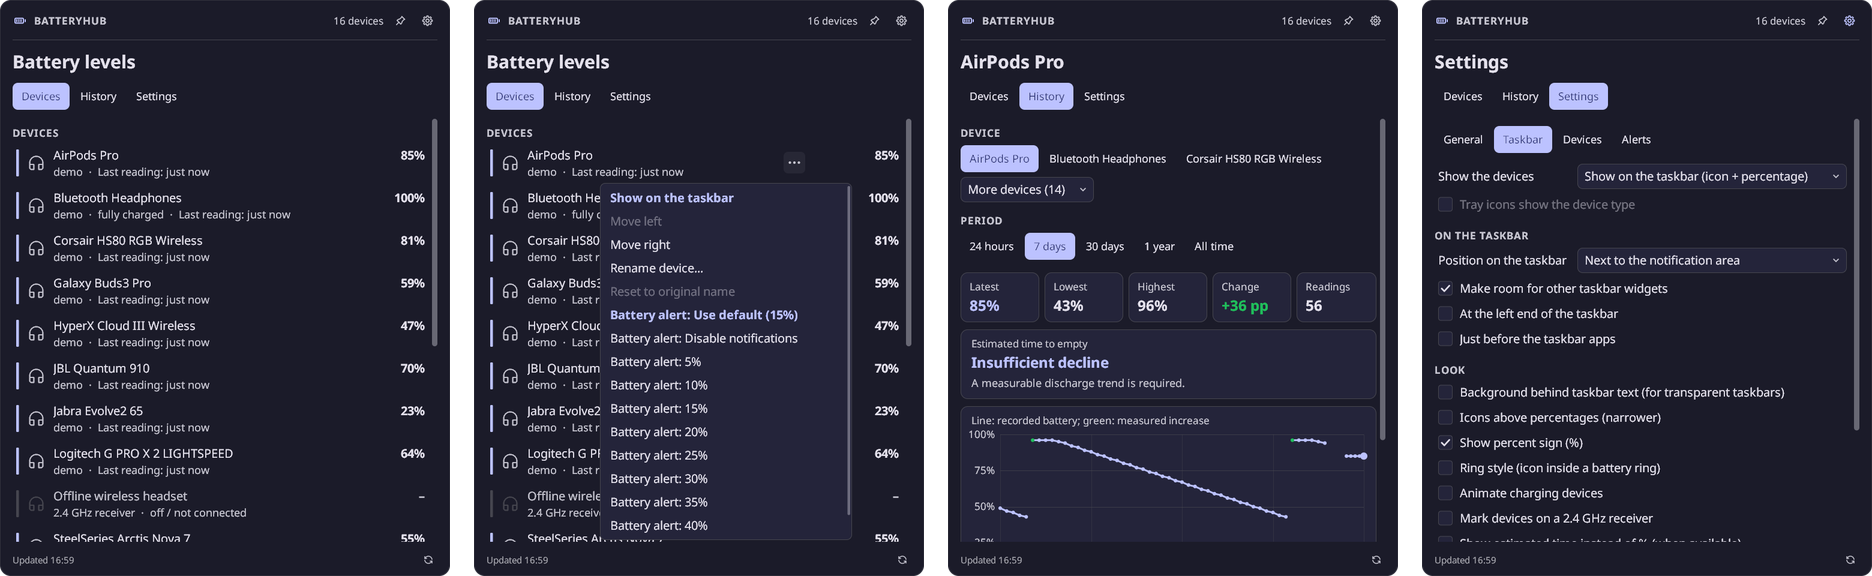
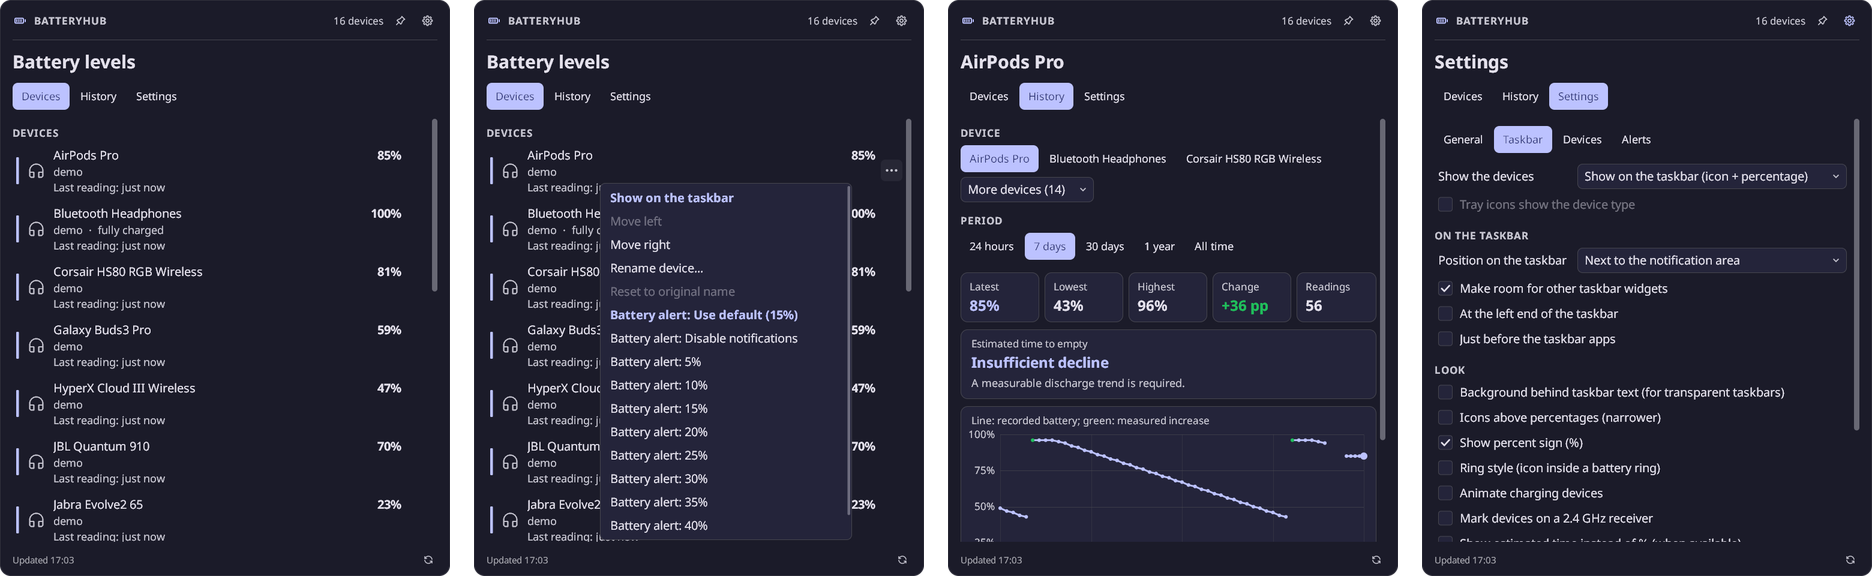
Devices tab: state and tracking details wrap on their own lines; the ... button has its own slot at the right

diff --git a/src/panel.cpp b/src/panel.cpp
@@ -449,14 +449,28 @@ int DrawDevices(int x, int y, int right) {
             y += P(10);
             y += Header(T(L"Hidden"), x, y, right) + P(4);
         }
-        const int rowH = P(4) + nameH + P(1) + subH + P(4);
+        // Columns: chip, icon, text (name, then connection and state, then the tracking details, wrapped),
+        // level and time to empty, and a fixed slot for the "..." button, so nothing overlaps or moves.
+        const COLORREF levelC = d.dim || !d.connected ? kMuted : d.low ? kError : d.charging ? kGo : kOnSurface;
+        const std::wstring tte = d.timeToEmpty.empty() ? std::wstring() : TF(L"{time} to empty", { { L"time", d.timeToEmpty } });
+        const int moreSlot = P(28);
+        const int levelRight = right - moreSlot - P(2);
+        const int levelW = std::max(Width(d.level, { 13, true }), tte.empty() ? 0 : Width(tte, subSt)) + P(4);
+        const int textX = x + P(4) + P(3) + P(8) + P(22) + P(8);
+        const int textRight = levelRight - levelW - P(10);
+        std::wstring line2 = d.connection;
+        if (!d.status.empty()) line2 += (line2.empty() ? L"" : L"  \u00B7  ") + d.status;
+        const int line2H = Wrap(line2, RECT{ textX, 0, textRight, P(400) }, subSt, false);
+        const int line3H = Wrap(d.details, RECT{ textX, 0, textRight, P(400) }, subSt, false);
+        const int rowH = P(4) + nameH + (line2H ? P(1) + line2H : 0) + (line3H ? P(1) + line3H : 0) + P(4);
         const RECT row{ x, y, right, y + rowH };
         AddHit(row, H::Device, static_cast<int>(i));
-        if (Hovered(H::Device, static_cast<int>(i)))
+        const bool rowHover = Hovered(H::Device, static_cast<int>(i)) || Hovered(H::Actions, static_cast<int>(i));
+        if (rowHover)
             FillRound(RectF{ (float)row.left, (float)row.top, (float)row.right, (float)row.bottom }, F(4), kOnSurface, 0.06f);
         int cx = x + P(4);
         // level chip, like the team colour bar in the standings
-        const float chipH = F(30);
+        const float chipH = std::min(F(30), rowH - F(10));
         const float cy = y + rowH / 2.0f;
         FillRound(RectF{ (float)cx, cy - chipH / 2, (float)cx + F(3), cy + chipH / 2 }, F(1), LevelColor(d));
         cx += P(3) + P(8);
@@ -468,31 +482,26 @@ int DrawDevices(int x, int y, int right) {
             RECT gr{ cx, y, cx + P(22), y + rowH };
             DrawTextW(g_cv.dc, g.c_str(), 1, &gr, DT_CENTER | DT_VCENTER | DT_SINGLELINE | DT_NOPREFIX);
         }
-        cx += P(22) + P(8);
-        const int rightW = P(104);
         const COLORREF nameC = d.dim || !d.connected ? kMuted : kOnSurface;
-        Text(d.name, RECT{ cx, y + P(4), right - rightW - P(8), y + P(4) + nameH }, { 13, false, nameC });
-        std::wstring sub = d.connection;
-        for (const std::wstring& part : { d.status, d.details })
-            if (!part.empty()) sub += (sub.empty() ? L"" : L"  ·  ") + part;
-        Text(sub, RECT{ cx, y + P(5) + nameH, right - rightW - P(8), y + P(5) + nameH + subH }, subSt);
-        COLORREF levelC = d.dim || !d.connected ? kMuted : d.low ? kError : d.charging ? kGo : kOnSurface;
-        Text(d.level, RECT{ right - rightW, y + P(4), right - P(4), y + P(4) + nameH }, { 13, true, levelC },
-             DT_RIGHT | DT_VCENTER | DT_SINGLELINE | DT_END_ELLIPSIS);
-        if (!d.timeToEmpty.empty())
-            Text(TF(L"{time} to empty", { { L"time", d.timeToEmpty } }),
-                 RECT{ right - rightW - P(30), y + P(5) + nameH, right - P(4), y + P(5) + nameH + subH }, subSt,
-                 DT_RIGHT | DT_VCENTER | DT_SINGLELINE | DT_END_ELLIPSIS);
-        if (Hovered(H::Device, static_cast<int>(i)) || Hovered(H::Actions, static_cast<int>(i)) ||
-            (g_open == kDeviceActions && g_actionsKey == d.key)) {  // "...": the device's actions
+        int ty = y + P(4);
+        Text(d.name, RECT{ textX, ty, textRight, ty + nameH }, { 13, false, nameC });
+        ty += nameH + P(1);
+        if (line2H) { Wrap(line2, RECT{ textX, ty, textRight, ty + line2H }, subSt); ty += line2H + P(1); }
+        if (line3H) Wrap(d.details, RECT{ textX, ty, textRight, ty + line3H }, subSt);
+        Text(d.level, RECT{ levelRight - levelW, y + P(4), levelRight, y + P(4) + nameH }, { 13, true, levelC },
+             DT_RIGHT | DT_VCENTER | DT_SINGLELINE);
+        if (!tte.empty())
+            Text(tte, RECT{ levelRight - levelW, y + P(5) + nameH, levelRight, y + P(5) + nameH + subH }, subSt,
+                 DT_RIGHT | DT_VCENTER | DT_SINGLELINE);
+        if (rowHover || (g_open == kDeviceActions && g_actionsKey == d.key)) {  // "...": the device's actions
             const int box = P(24);
-            const RECT more{ right - rightW - P(4) - box, y + (rowH - box) / 2, right - rightW - P(4), y + (rowH + box) / 2 };
+            const RECT more{ right - box, y + (rowH - box) / 2, right, y + (rowH + box) / 2 };
             AddHit(more, H::Actions, static_cast<int>(i));
+            const bool hot = Hovered(H::Actions, static_cast<int>(i));
             FillRound(RectF{ (float)more.left, (float)more.top, (float)more.right, (float)more.bottom }, F(5), kOnSurface,
-                      Hovered(H::Actions, static_cast<int>(i)) ? 0.12f : 0.06f);
+                      hot ? 0.12f : 0.06f);
             for (int k = -1; k <= 1; ++k)
-                Dot((more.left + more.right) / 2.0f + k * F(5), (more.top + more.bottom) / 2.0f, F(1.4f),
-                    Hovered(H::Actions, static_cast<int>(i)) ? kAccent : kMuted);
+                Dot((more.left + more.right) / 2.0f + k * F(5), (more.top + more.bottom) / 2.0f, F(1.4f), hot ? kAccent : kMuted);
         }
         y += rowH + P(4);
     }
